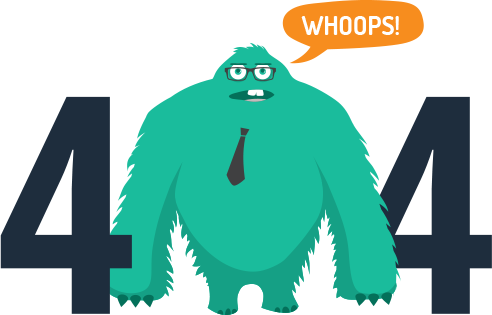
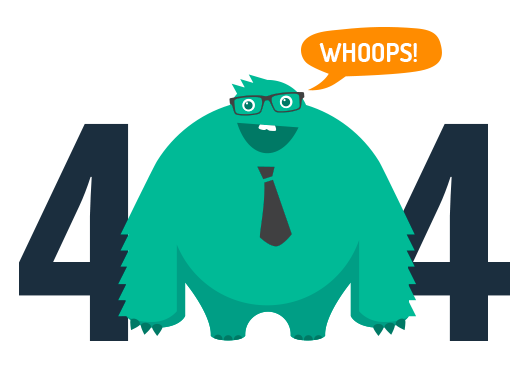
updated 404 page US-792

diff --git a/err/404.html b/err/404.html
@@ -11,15 +11,17 @@
 		<!--{{/i/nav.inc}}-->	
 		<div class="spacer100"></div>
 		<div class="row-fluid">
-			<div class="span12 text-center"><img src="/img/404.png" alt="whoops" /></div>
+			<div class="span12 text-center">
+                <a href="/"><img src="/img/404.png" alt="whoops" /> </a>
+            </div>
 	    </div>  
-	    <div class="spacer40"></div> 
+	    <div class="spacer10"></div>
 		<div class="row-fluid">
-			<div id="error" class="span12 text-center">Looks Like You're a Little Lost....</div>
+			<div class="span12 text-center"><h2>Looks Like You're a Little Lost....</h2></div>
 	    </div> 
-	    <div class="spacer20"></div> 
+	    <div class="spacer10"></div>
 		<div class="row-fluid">
-			<div class="span12 text-center"><a href="/" class="button orangeButton">Go Back Home</a></div>
+			<div class="span12 text-center"><a href="/"><button class="button greenButton">Go Back Home</button></a></div>
 	    </div>  
 		<div class="minimumGap"></div>
 		<div class="push"></div>   
